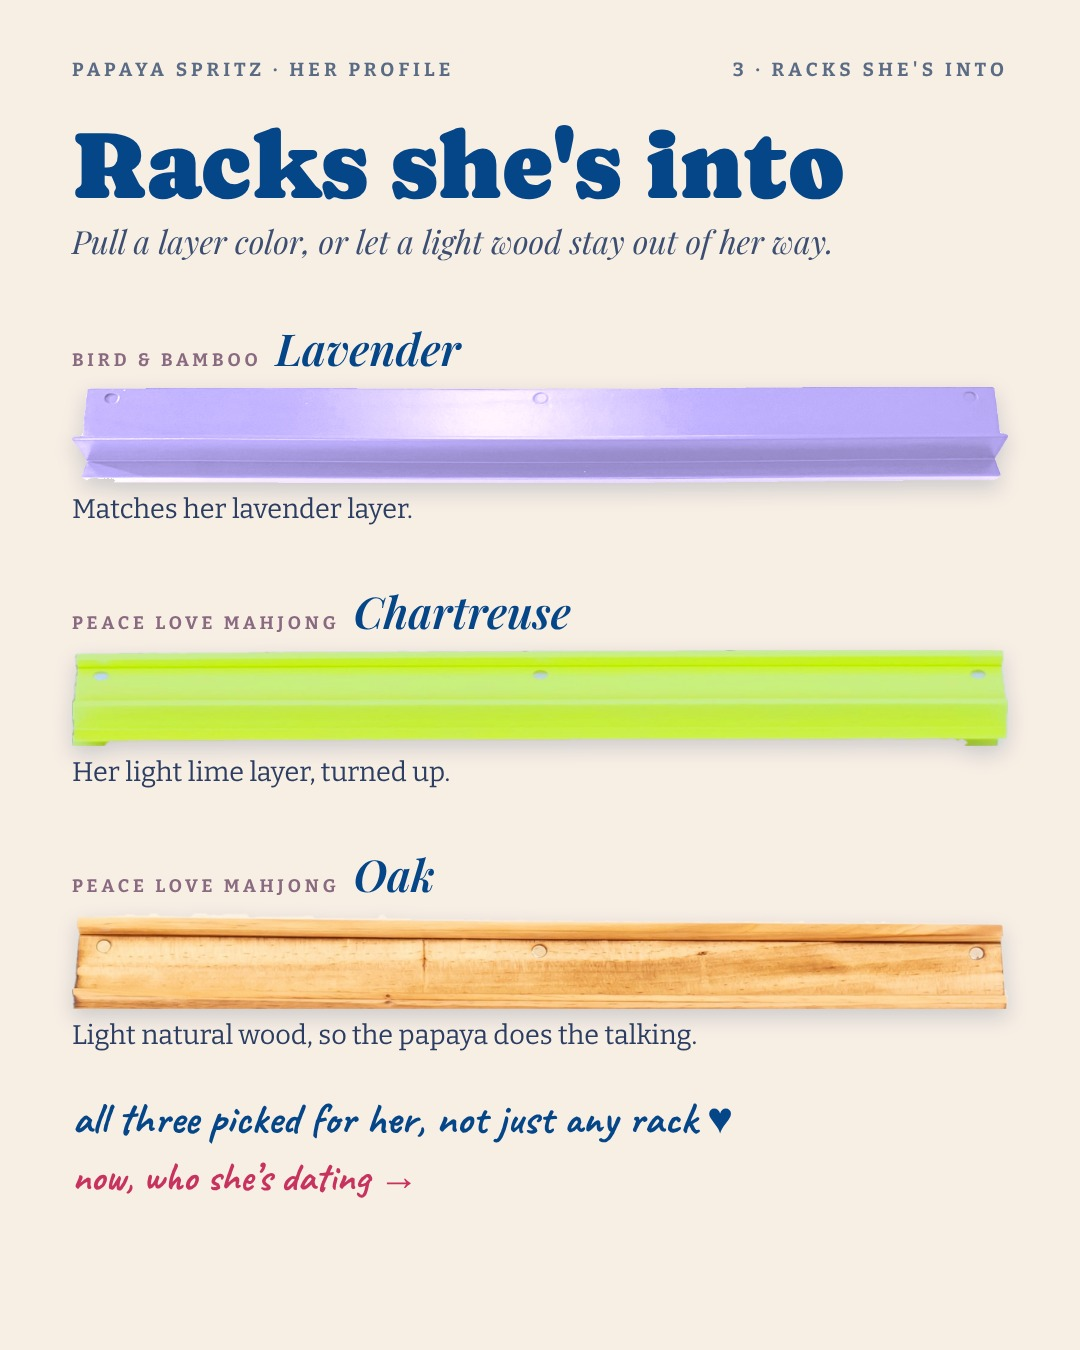
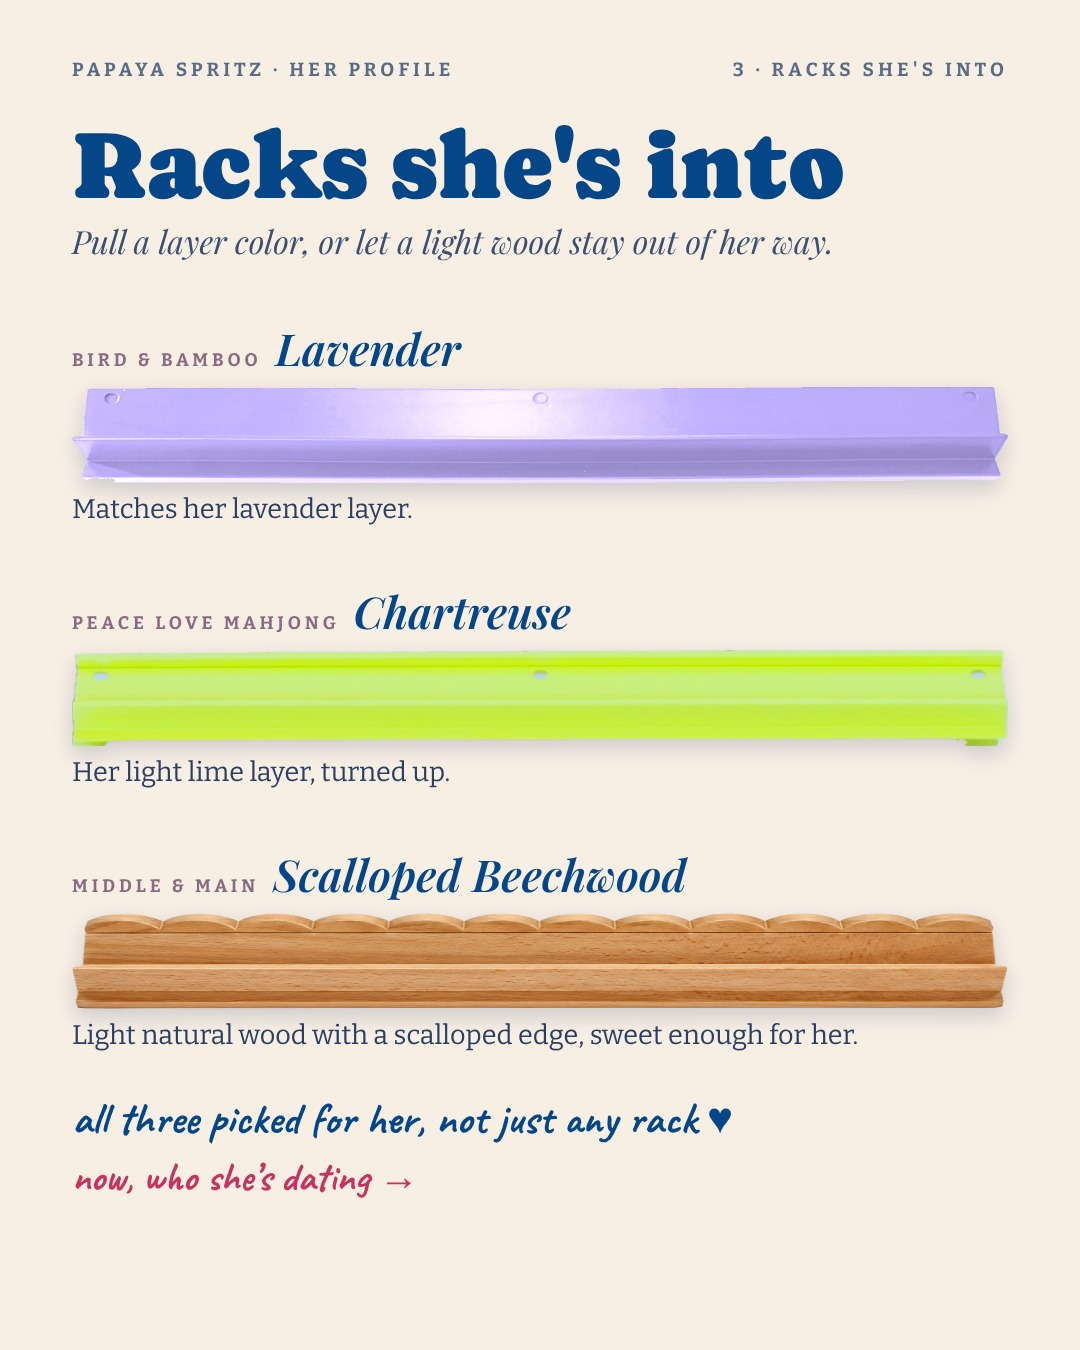
Papaya racks: PLM Oak -> Middle & Main Scalloped Beechwood (intro carousel); carousel brand parsing for any rack brand
Claude-Session: https://claude.ai/code/session_014aKoC1ZMdZPjGkZ9kHhnLk

Changed region(s): [[0.0611, 0.6222, 0.9472, 0.7778]]

diff --git a/assets/social/papaya-spritz-launch/html/intro-5.html b/assets/social/papaya-spritz-launch/html/intro-5.html
@@ -33,9 +33,9 @@ html,body{width:1080px;height:1350px;overflow:hidden;background:#f7eee4;color:#0
 <img src="file:///home/claude/mahjmatchmaker-data/assets/colorcards/papaya-spritz/racks/bird-and-bamboo-lavender.png" style="display:block;width:936px;height:96px;object-fit:fill;margin-top:10px;filter:drop-shadow(0 8px 10px rgba(6,40,90,.18))">
 <div style="font:400 27px Bit;margin-top:10px;color:#2c3e63">Matches her lavender layer.</div></div><div style="margin-top:56px"><div style="display:flex;align-items:baseline;gap:14px"><span class="caps" style="font-size:18px;color:#8a6a80">Peace Love Mahjong</span><span class="pf" style="font-size:44px;font-weight:600">Chartreuse</span></div>
 <img src="file:///home/claude/mahjmatchmaker-data/assets/racks/card/peace-love-mahjong-chartreuse.png" style="display:block;width:936px;height:96px;object-fit:fill;margin-top:10px;filter:drop-shadow(0 8px 10px rgba(6,40,90,.18))">
-<div style="font:400 27px Bit;margin-top:10px;color:#2c3e63">Her light lime layer, turned up.</div></div><div style="margin-top:56px"><div style="display:flex;align-items:baseline;gap:14px"><span class="caps" style="font-size:18px;color:#8a6a80">Peace Love Mahjong</span><span class="pf" style="font-size:44px;font-weight:600">Oak</span></div>
-<img src="file:///home/claude/mahjmatchmaker-data/assets/racks/card/peace-love-mahjong-oak.png" style="display:block;width:936px;height:96px;object-fit:fill;margin-top:10px;filter:drop-shadow(0 8px 10px rgba(6,40,90,.18))">
-<div style="font:400 27px Bit;margin-top:10px;color:#2c3e63">Light natural wood, so the papaya does the talking.</div></div>
+<div style="font:400 27px Bit;margin-top:10px;color:#2c3e63">Her light lime layer, turned up.</div></div><div style="margin-top:56px"><div style="display:flex;align-items:baseline;gap:14px"><span class="caps" style="font-size:18px;color:#8a6a80">Middle &amp; Main</span><span class="pf" style="font-size:44px;font-weight:600">Scalloped Beechwood</span></div>
+<img src="file:///home/claude/mahjmatchmaker-data/assets/racks/card/middle--main-scalloped-beechwood.png" style="display:block;width:936px;height:96px;object-fit:fill;margin-top:10px;filter:drop-shadow(0 8px 10px rgba(6,40,90,.18))">
+<div style="font:400 27px Bit;margin-top:10px;color:#2c3e63">Light natural wood with a scalloped edge, sweet enough for her.</div></div>
  <div class="hand" style="font-size:44px;margin-top:40px;color:var(--navy)">all three picked for her, not just any rack &hearts;</div>
  <div class="hand" style="font-size:40px;margin-top:6px;color:var(--pink)">now, who she&rsquo;s dating &rarr;</div>
 </div>

diff --git a/assets/social/papaya-spritz-launch/html/s3.html b/assets/social/papaya-spritz-launch/html/s3.html
@@ -33,9 +33,9 @@ html,body{width:1080px;height:1350px;overflow:hidden;background:#f7eee4;color:#0
 <img src="file:///home/claude/mahjmatchmaker-data/assets/colorcards/papaya-spritz/racks/bird-and-bamboo-lavender.png" style="display:block;width:936px;height:96px;object-fit:fill;margin-top:10px;filter:drop-shadow(0 8px 10px rgba(6,40,90,.18))">
 <div style="font:400 27px Bit;margin-top:10px;color:#2c3e63">Matches her lavender layer.</div></div><div style="margin-top:56px"><div style="display:flex;align-items:baseline;gap:14px"><span class="caps" style="font-size:18px;color:#8a6a80">Peace Love Mahjong</span><span class="pf" style="font-size:44px;font-weight:600">Chartreuse</span></div>
 <img src="file:///home/claude/mahjmatchmaker-data/assets/racks/card/peace-love-mahjong-chartreuse.png" style="display:block;width:936px;height:96px;object-fit:fill;margin-top:10px;filter:drop-shadow(0 8px 10px rgba(6,40,90,.18))">
-<div style="font:400 27px Bit;margin-top:10px;color:#2c3e63">Her light lime layer, turned up.</div></div><div style="margin-top:56px"><div style="display:flex;align-items:baseline;gap:14px"><span class="caps" style="font-size:18px;color:#8a6a80">Peace Love Mahjong</span><span class="pf" style="font-size:44px;font-weight:600">Oak</span></div>
-<img src="file:///home/claude/mahjmatchmaker-data/assets/racks/card/peace-love-mahjong-oak.png" style="display:block;width:936px;height:96px;object-fit:fill;margin-top:10px;filter:drop-shadow(0 8px 10px rgba(6,40,90,.18))">
-<div style="font:400 27px Bit;margin-top:10px;color:#2c3e63">Light natural wood, so the papaya does the talking.</div></div>
+<div style="font:400 27px Bit;margin-top:10px;color:#2c3e63">Her light lime layer, turned up.</div></div><div style="margin-top:56px"><div style="display:flex;align-items:baseline;gap:14px"><span class="caps" style="font-size:18px;color:#8a6a80">Middle &amp; Main</span><span class="pf" style="font-size:44px;font-weight:600">Scalloped Beechwood</span></div>
+<img src="file:///home/claude/mahjmatchmaker-data/assets/racks/card/middle--main-scalloped-beechwood.png" style="display:block;width:936px;height:96px;object-fit:fill;margin-top:10px;filter:drop-shadow(0 8px 10px rgba(6,40,90,.18))">
+<div style="font:400 27px Bit;margin-top:10px;color:#2c3e63">Light natural wood with a scalloped edge, sweet enough for her.</div></div>
  <div class="hand" style="font-size:44px;margin-top:40px;color:var(--navy)">all three picked for her, not just any rack &hearts;</div>
  <div class="hand" style="font-size:40px;margin-top:6px;color:var(--pink)">now, who she&rsquo;s dating &rarr;</div>
 </div>

diff --git a/scripts/social/tileprofile/carousel.py b/scripts/social/tileprofile/carousel.py
@@ -12,7 +12,8 @@ ACC = S['col']; L = P['launch'] = {'hero': 'assets/launches/omm-papaya-spritz-ti
                                     'all': 'assets/launches/omm-papaya-spritz-tiles/01.jpg'}
 MATS = S['mat_imgs']; RACK = {'Bird & Bamboo Lavender': 'assets/colorcards/papaya-spritz/racks/bird-and-bamboo-lavender.png',
                               'Peace Love Mahjong Chartreuse': 'assets/racks/card/peace-love-mahjong-chartreuse.png',
-                              'Peace Love Mahjong Oak': 'assets/racks/card/peace-love-mahjong-oak.png'}
+                              'Peace Love Mahjong Oak': 'assets/racks/card/peace-love-mahjong-oak.png',
+                              'Middle & Main Scalloped Beechwood': 'assets/racks/card/middle--main-scalloped-beechwood.png'}
 LOGO = url('assets/brand/mahjmatchmaker-wordmark-notag.png'); TILE = url(S['tile'])
 e = html.escape
 OMM = P.get('omm_launch'); NS = 7 if OMM else 5
@@ -92,7 +93,7 @@ s3 = page(NS - 1, head(('5' if OMM else '3') + ' · top matches') + f"""
 # 4 racks she's into
 rk = ''
 for r in P['racks']:
-    b = 'Bird & Bamboo' if r['name'].startswith('Bird') else 'Peace Love Mahjong'; c = r['name'][len(b) + 1:]
+    b = next((x for x in ('Bird & Bamboo', 'Peace Love Mahjong', 'Middle & Main', 'Miss Mahjong', 'Mahjong Row & Co.', 'Bam Bird Boutique') if r['name'].startswith(x)), r['name'].split()[0]); c = r['name'][len(b) + 1:]
     rk += f"""<div style="margin-top:56px"><div style="display:flex;align-items:baseline;gap:14px"><span class="caps" style="font-size:18px;color:#8a6a80">{e(b)}</span><span class="pf" style="font-size:44px;font-weight:600">{e(c)}</span></div>
 <img src="{url(RACK[r['name']])}" style="display:block;width:936px;height:96px;object-fit:fill;margin-top:10px;filter:drop-shadow(0 8px 10px rgba(6,40,90,.18))">
 <div style="font:400 27px Bit;margin-top:10px;color:#2c3e63">{e(r['why'])}</div></div>"""
